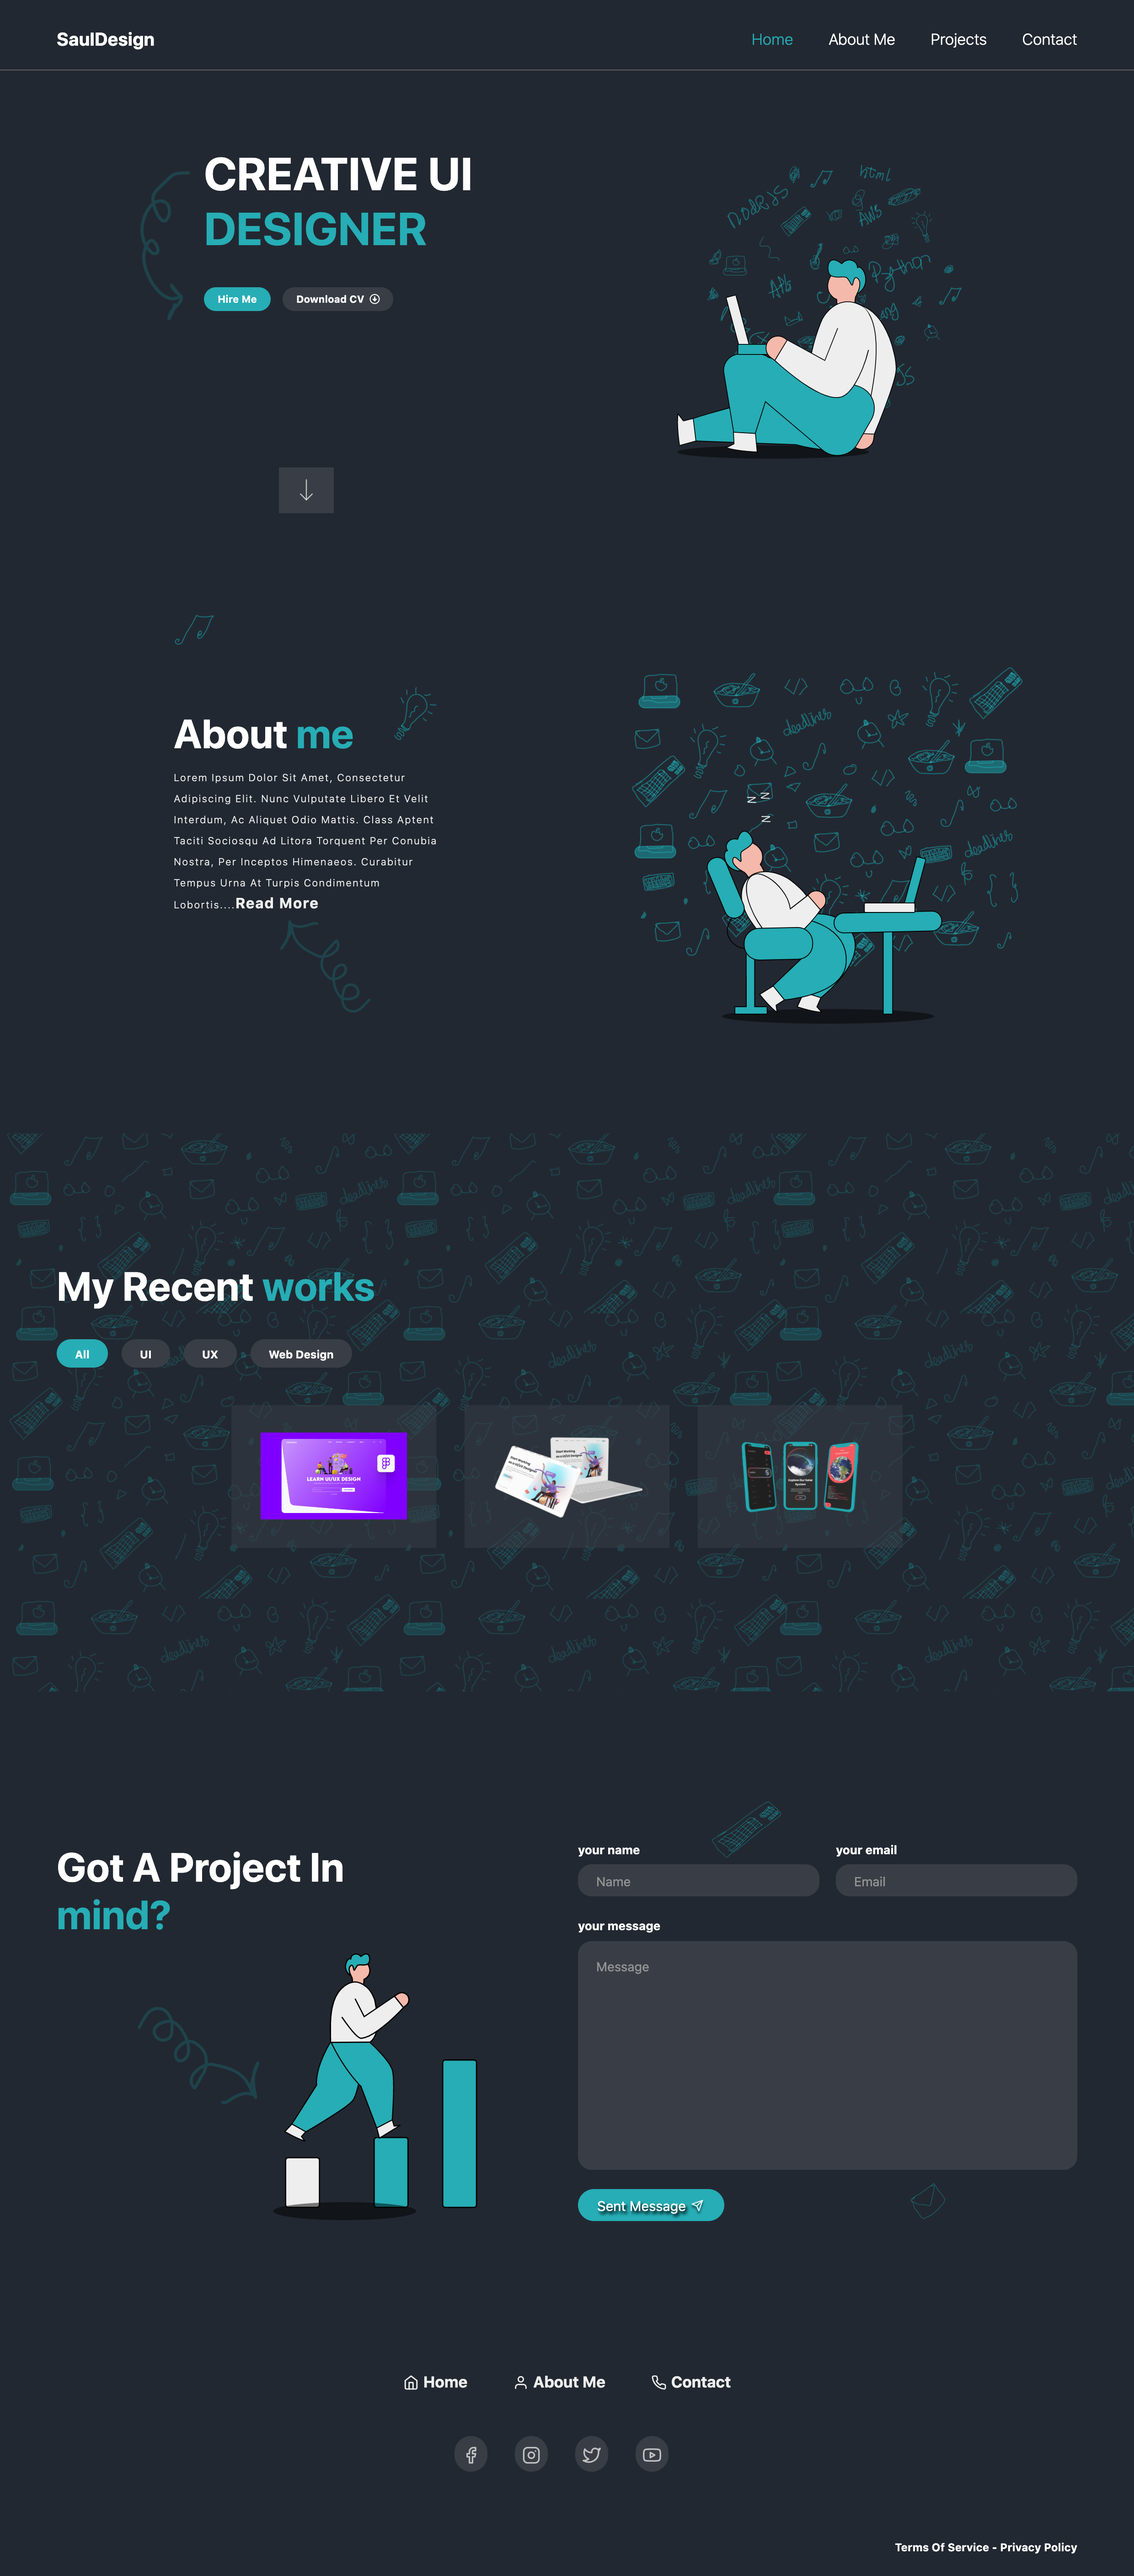
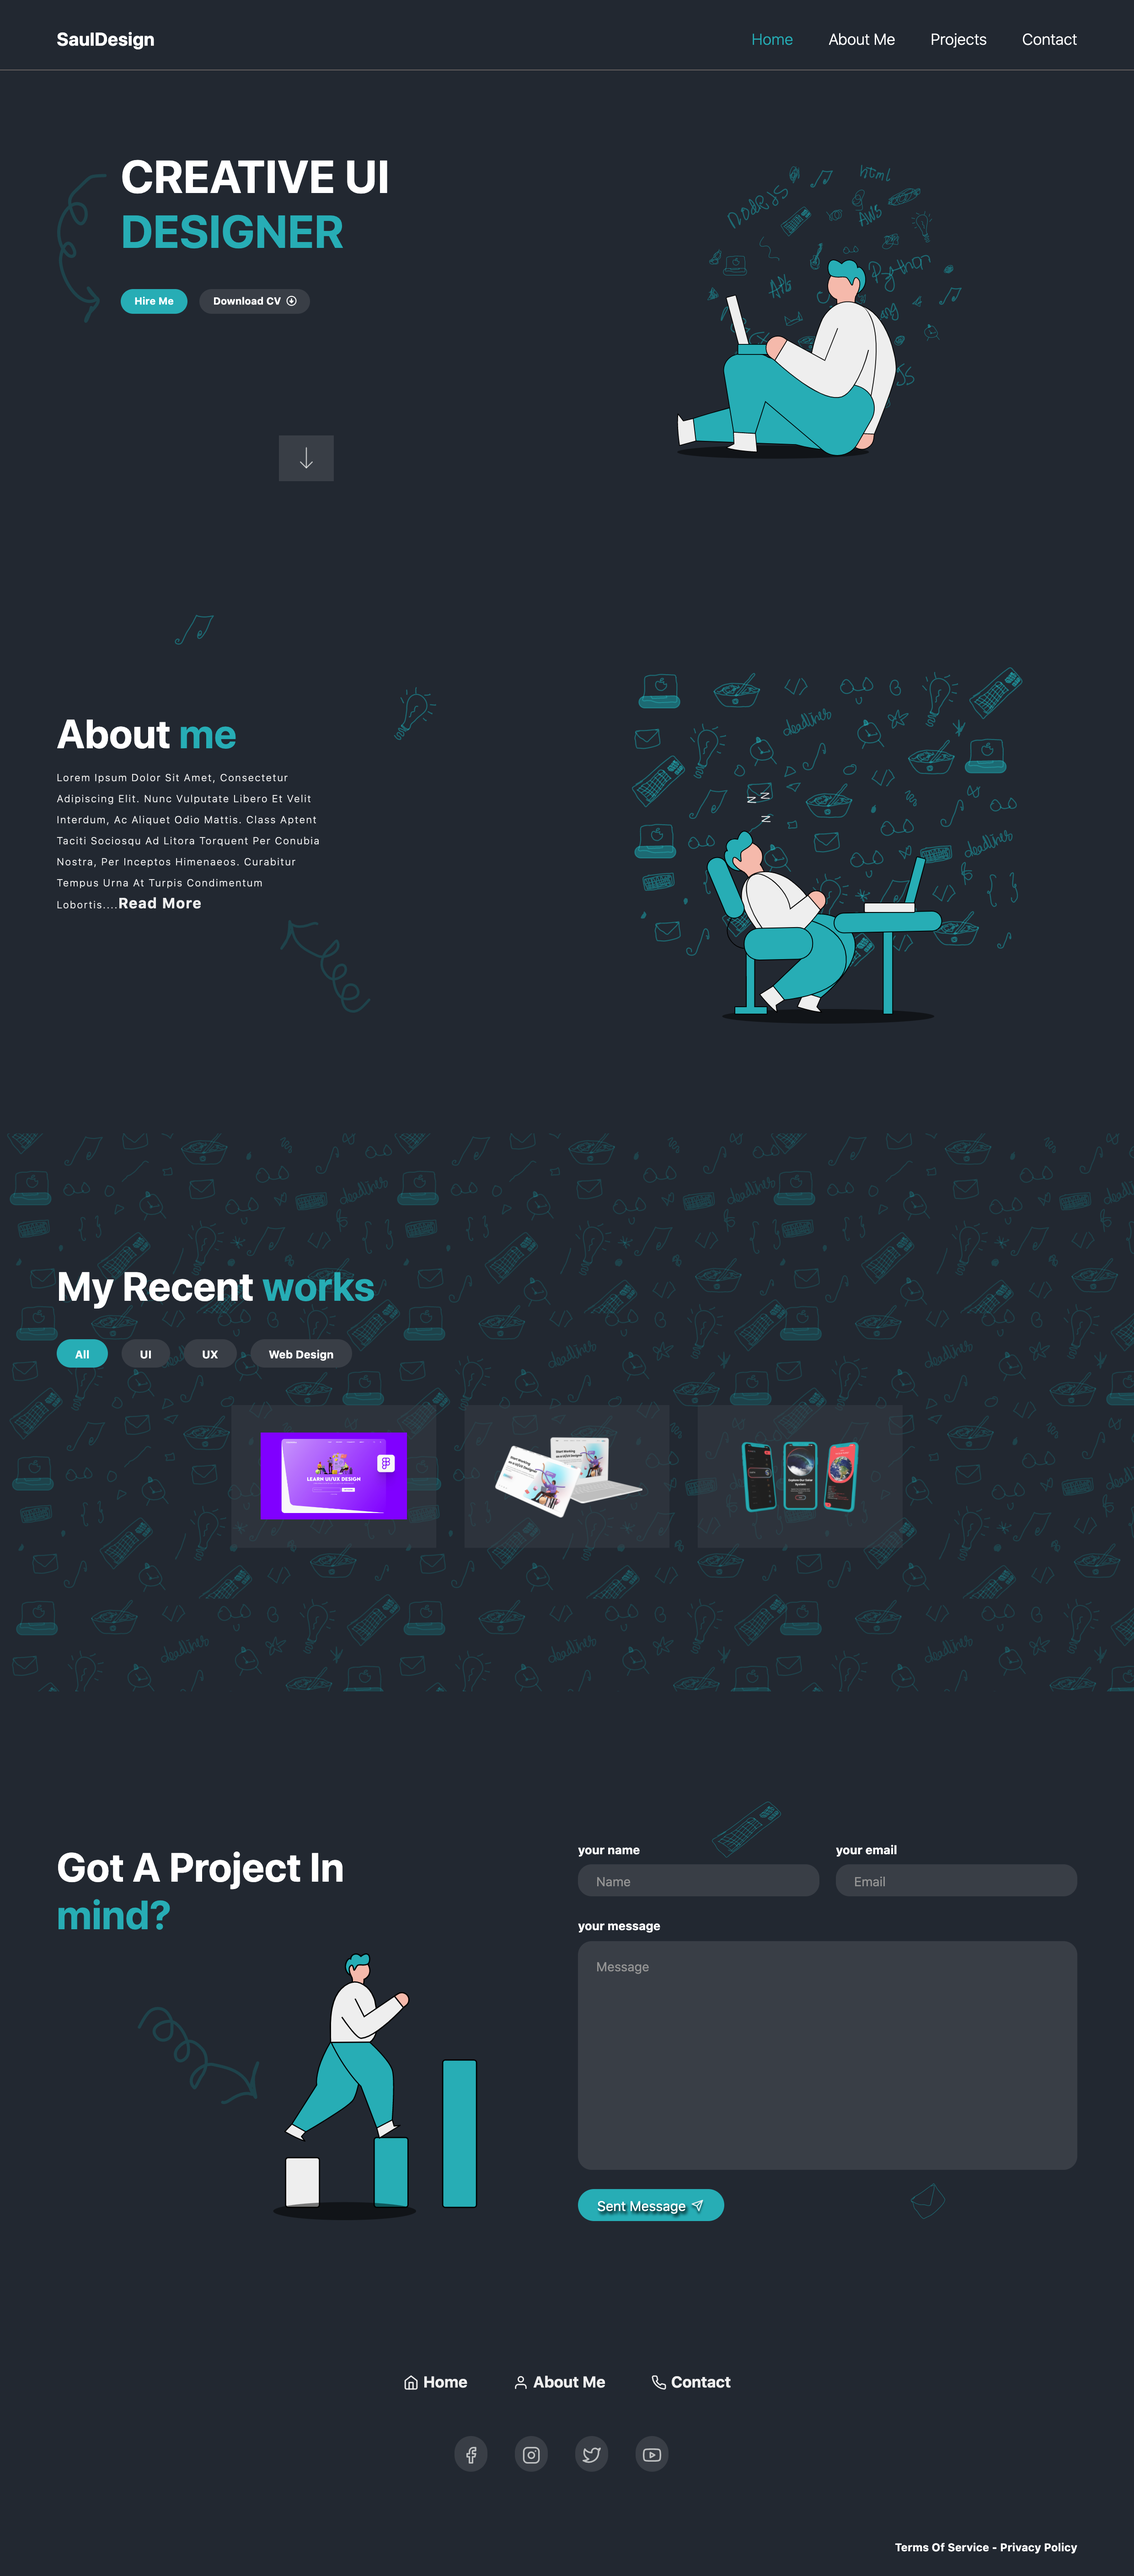
Update

Changed region(s): [[0.0931, 0.0625, 0.4036, 0.125], [0.0621, 0.2812, 0.3105, 0.3438]]

diff --git a/css/style.css b/css/style.css
@@ -204,7 +204,6 @@ header #navBar.active {
   background-size: contain;
   background-position: center center;
   height: 450px;
-  justify-content: center;
 }
 .about-me .left-section .info {
   margin-top: 55px;
@@ -422,6 +421,9 @@ footer .privacy {
   }
   .intro {
     margin-top: 125px !important;
+  }
+  .about-me .left-section {
+    justify-content: center !important;
   }
 }
 @media (min-width: 768px) and (max-width: 991px) {

diff --git a/css/.parials/_media-query.scss b/css/.parials/_media-query.scss
@@ -35,6 +35,12 @@
     .intro {
         margin-top: 125px !important;
     }
+
+    .about-me {
+        .left-section {
+            justify-content: center !important;
+        }
+    }
 }
 // End Small Screens (Smaller Smartphones)
 

diff --git a/css/.parials/_main.scss b/css/.parials/_main.scss
@@ -149,7 +149,7 @@ header {
         background-size: contain;
         background-position: center center;
         height: 450px;
-        justify-content: center;
+        // justify-content: center;
 
 
         .info {
